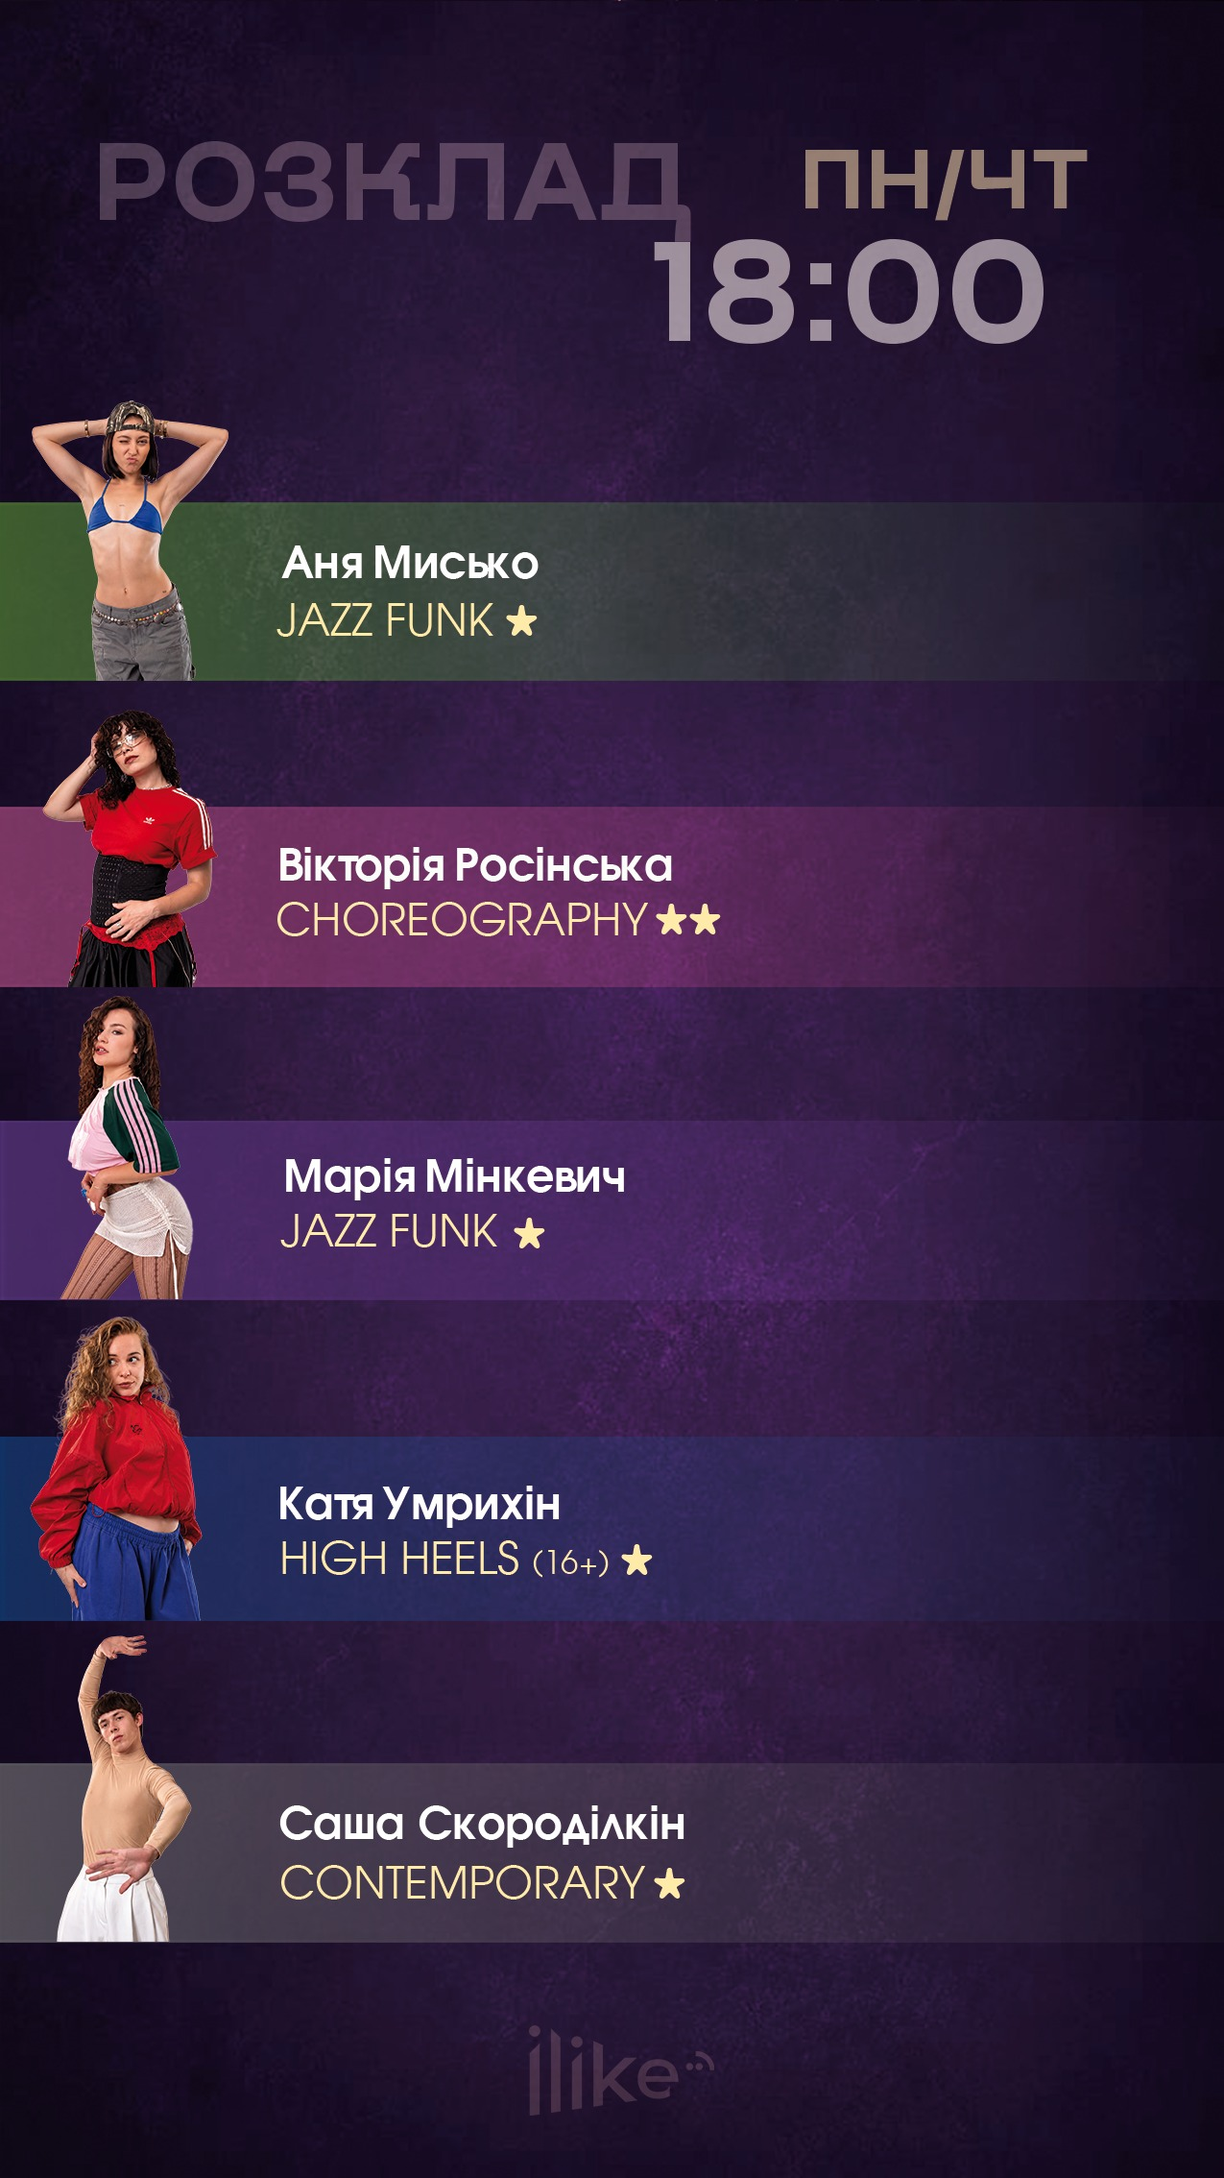
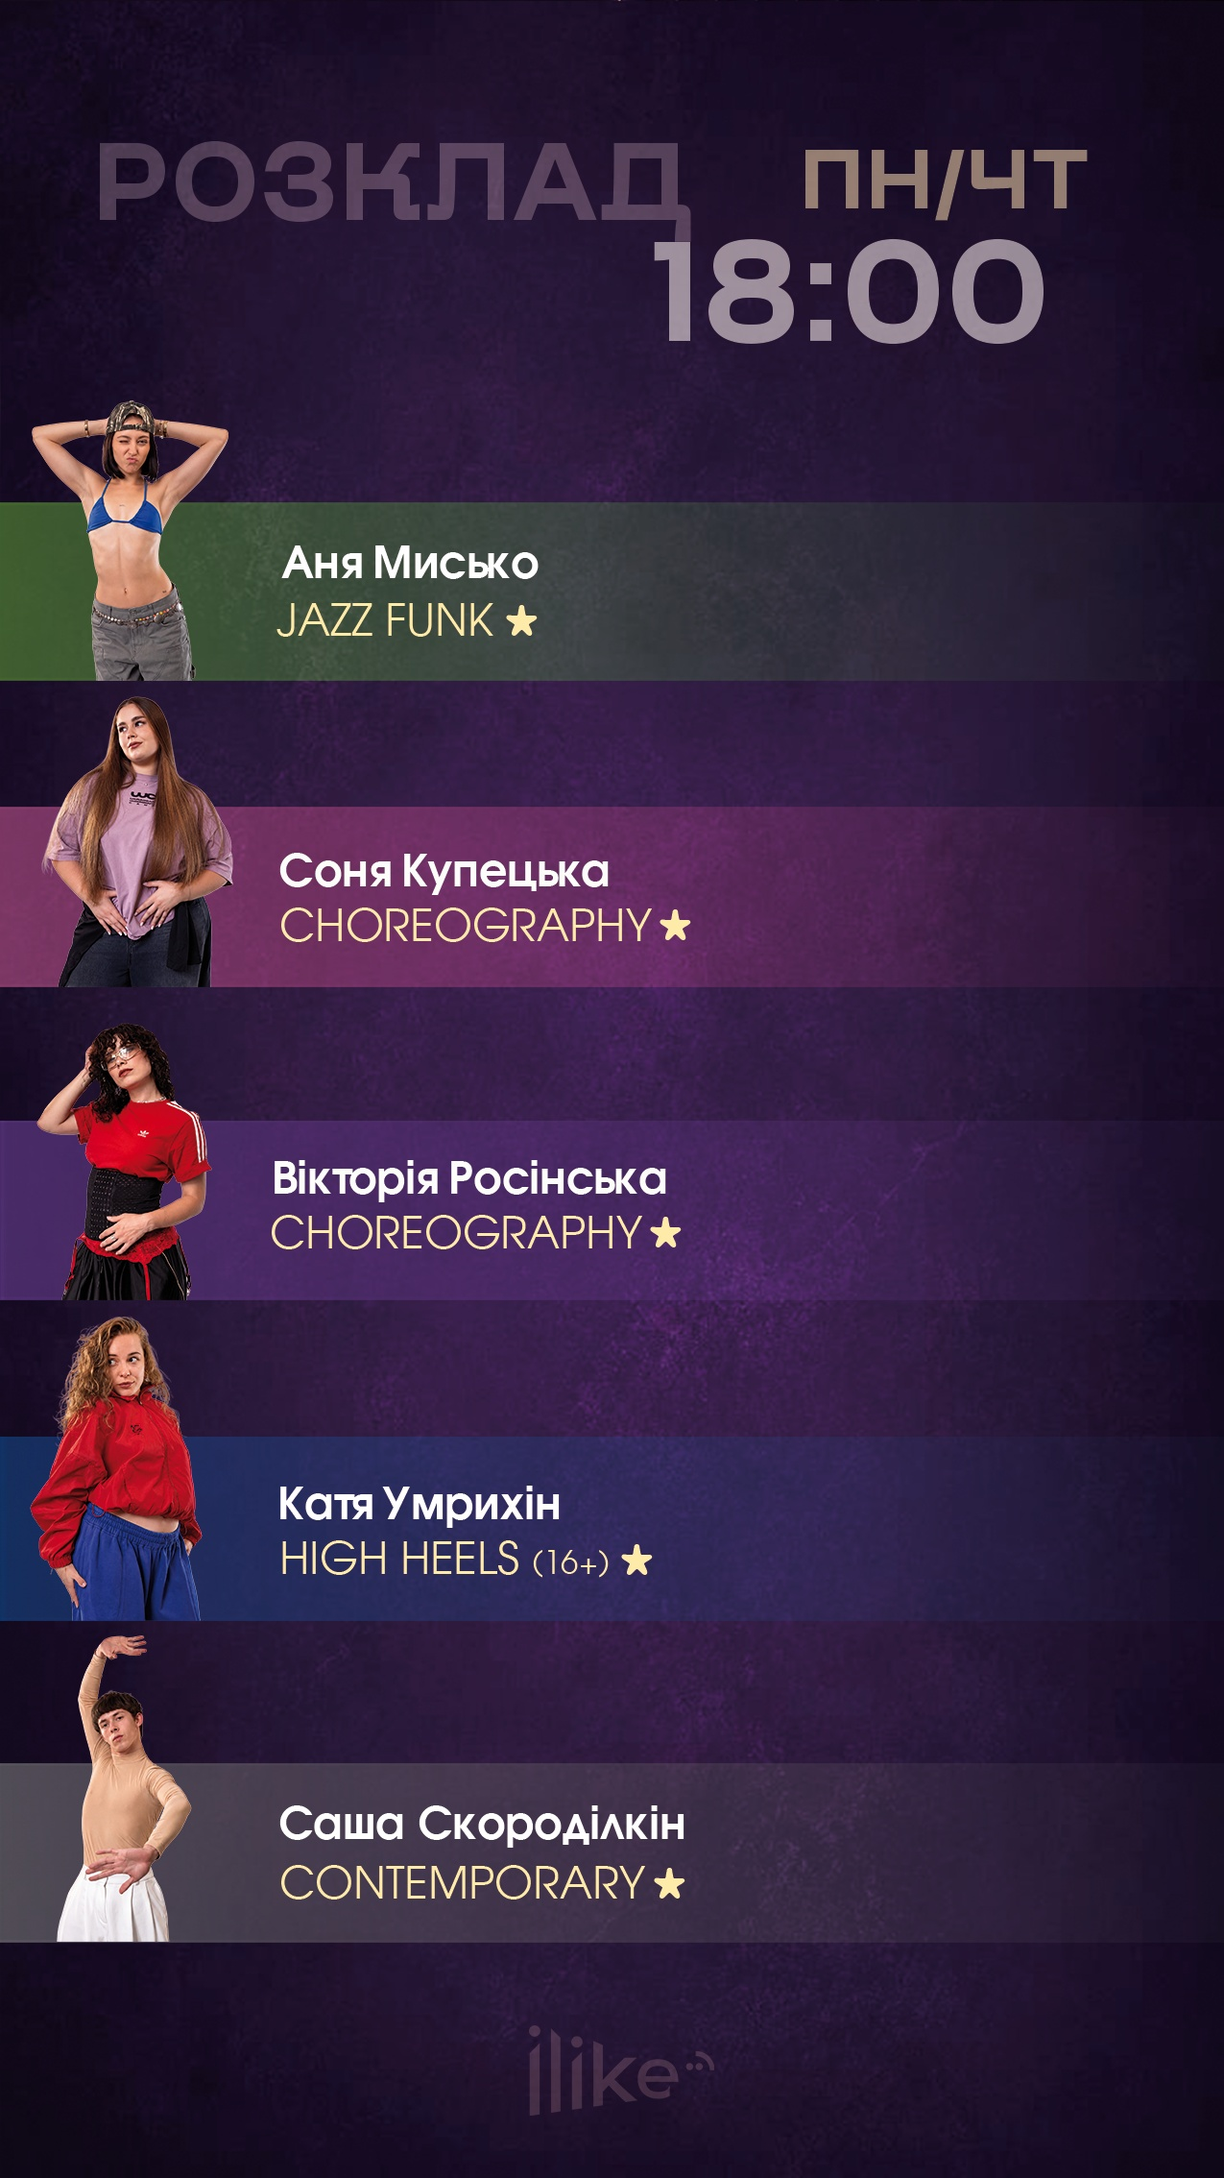
Оновити розклад і макети Пн-Чт 18:00/20:00, прибрати Мінкевич, додати /pollcheck
Заміна: статус "заміна" підіймається на 20px у сторіс, кнопка "Заміна тренера"
вище в опитуванні, нова команда /pollcheck для перевірки, хто не відповідає.

Changed region(s): [[0.0306, 0.3086, 0.5812, 0.6173], [0.2141, 0.5247, 0.5506, 0.5864]]

diff --git a/bot/config.py b/bot/config.py
@@ -55,7 +55,6 @@ CHOREOGRAPHERS = [
     "Копитко Юля",
     "Соня Криця",
     "Кулик Дмитро",
-    "Мінкевич Марія",
     "Медвідь Богдан",
     "Мисько Аня",
     "Мурачева Женя",
@@ -122,17 +121,17 @@ STATUSES = {
         "phrase": "не можна приєднатися",
         "can_join": False,
     },
-    "last_mk": {
-        "button": "🎓 Останнє заняття (лише МК)",
-        "label": "останнє заняття - в форматі МК",
-        "phrase": "🎓 останнє заняття, лише формат МК",
-        "can_join": "mk",
-    },
     "substitute": {
         "button": "🔁 Заміна тренера",
         "label": "заміна тренера",
         "phrase": "🔀 ЗАМІНА, можна приєднатися",
         "can_join": True,
+    },
+    "last_mk": {
+        "button": "🎓 Останнє заняття (лише МК)",
+        "label": "останнє заняття - в форматі МК",
+        "phrase": "🎓 останнє заняття, лише формат МК",
+        "can_join": "mk",
     },
     "cancelled": {
         "button": "🚫 Відміна заняття",
@@ -176,10 +175,10 @@ SCHEDULE = [
      "style": "Street Dance (6-9)", "level": 1, "hall": "blue"},
     {"day_pattern": "mon_thu", "time": "17:00", "choreographer": "Скороділкін Саша",
      "style": "Contemporary (6-9)", "level": 1, "hall": "white", "start_date": "2026-09-14"},
-    {"day_pattern": "mon_thu", "time": "18:00", "choreographer": "Мінкевич Марія",
-     "style": "Jazz-Funk (16+)", "level": 1, "hall": "purple", "start_date": "2026-09-17"},
+    {"day_pattern": "mon_thu", "time": "18:00", "choreographer": "Купецька Соня",
+     "style": "Choreography", "level": 1, "hall": "pink"},
     {"day_pattern": "mon_thu", "time": "18:00", "choreographer": "Росінська Віка",
-     "style": "Choreography", "level": 2, "hall": "pink", "start_date": "2026-07-27"},
+     "style": "Choreography", "level": 1, "hall": "purple", "start_date": "2026-07-27"},
     {"day_pattern": "mon_thu", "time": "18:00", "choreographer": "Мисько Аня",
      "style": "Jazz-Funk", "level": 1, "hall": "green"},
     {"day_pattern": "mon_thu", "time": "18:00", "choreographer": "Умрихін Катя",
@@ -196,14 +195,14 @@ SCHEDULE = [
      "style": "Contemporary", "level": 1, "hall": "purple"},
     {"day_pattern": "mon_thu", "time": "19:00", "choreographer": "Острянко Нана",
      "style": "Jazz Funk", "level": 1, "hall": "pink"},
-    {"day_pattern": "mon_thu", "time": "20:00", "choreographer": "Мінкевич Марія",
-     "style": "High Heels (16+)", "level": 1, "hall": "purple", "locked": True},
+    {"day_pattern": "mon_thu", "time": "20:00", "choreographer": "Сковира Віка",
+     "style": "Jazz Funk", "level": 1, "hall": "pink"},
     {"day_pattern": "mon_thu", "time": "20:00", "choreographer": "Копитко Юля",
      "style": "Choreography", "level": 1, "hall": "blue"},
     {"day_pattern": "mon_thu", "time": "20:00", "choreographer": "Острянко Нана",
-     "style": "V.L.C.ARTIST CREW", "level": 3, "hall": "white", "locked": True},
+     "style": "V.L.C.ARTIST CREW", "level": 3, "hall": "purple", "locked": True},
     {"day_pattern": "mon_thu", "time": "20:00", "choreographer": "Мисько Аня",
-     "style": "High Heels (16+)", "level": 1, "hall": "pink"},
+     "style": "High Heels (16+)", "level": 1, "hall": "white"},
     {"day_pattern": "mon_thu", "time": "20:00", "choreographer": "Кулик Дмитро",
      "style": "Jazz Funk", "level": 2, "hall": "green"},
 

diff --git a/bot/story_builder.py b/bot/story_builder.py
@@ -81,6 +81,12 @@ _STORY_CONTENT = {
     "cancelled": "ВІДМІНА",
 }
 
+# 2026-09-17: лише статус "заміна" підняти трохи вище в межах свого рядка -
+# користувач явно попросив НЕ чіпати решту статусів (зокрема "ФОРМАТ МК").
+# Перевірено тестовим зображенням (tue_fri 17:00, зсув -20px), підтверджено
+# ("мені подобається, давай так залишимо") - див. LEARNINGS.md.
+_SUBSTITUTE_Y_SHIFT = -20
+
 
 def _pill_box(row_index: int, bounds: dict) -> tuple[int, int, int, int]:
     y0, y1 = bounds["y_bounds"][row_index]
@@ -146,13 +152,17 @@ def _draw_locked_pill(im: Image.Image, box, row_index: int, pill_width: int) -> 
 
 
 def _draw_status_text(im: Image.Image, draw: ImageDraw.ImageDraw, box, text: str, text_font,
-                       scale: float = 1.0) -> None:
+                       scale: float = 1.0, y_shift: int = 0) -> None:
     """Єдиний стиль для всіх статусів: однаковий розмір, по ГОРИЗОНТАЛЬНОМУ і
     вертикальному центру зони. Звірено з PSD-макетом розмітки статусів від
     дизайнера (2026-09-10) - усі 5 прикладів мають майже ІДЕНТИЧНИЙ X-центр
     тексту (~1016px з 1275, розбіжність <1px), а не спільний правий край
     (праві краї відрізняються на 60-90px) - це однозначно center-alignment,
-    не right-alignment, яке малювалось раніше."""
+    не right-alignment, яке малювалось раніше.
+
+    y_shift: точковий зсув по Y лише для конкретного статусу (наразі - "заміна",
+    2026-09-17, "мені подобається" на тестовому зображенні) - НЕ чіпає box
+    самого рядка (інші статуси в цьому ж рядку лишаються на місці)."""
     def s(px: float) -> int:
         return round(px * scale)
 
@@ -166,7 +176,7 @@ def _draw_status_text(im: Image.Image, draw: ImageDraw.ImageDraw, box, text: str
     font, gap = _fit_font(draw, lines, base_font, 0, box_h, box_w, min_size=s(12))
     heights = [_ink_size(draw, ln, font) for ln in lines]
     total_h = sum(h for _, h, _ in heights) + gap * (len(lines) - 1)
-    y = y0 + (box_h - total_h) / 2
+    y = y0 + (box_h - total_h) / 2 + y_shift
     _draw_lines_aligned(draw, box, lines, heights, font, y, gap, align="center")
 
 
@@ -213,7 +223,8 @@ async def build_story_image(
 
         text = _STORY_CONTENT.get(resp["status_key"])
         if text is not None:
-            _draw_status_text(im, draw, box, text, text_font, scale=scale)
+            y_shift = _SUBSTITUTE_Y_SHIFT if resp["status_key"] == "substitute" else 0
+            _draw_status_text(im, draw, box, text, text_font, scale=scale, y_shift=y_shift)
 
     im.save(out_path)
     return out_path

diff --git a/bot/handlers/admin.py b/bot/handlers/admin.py
@@ -1,3 +1,4 @@
+import datetime as dt
 import logging
 
 import aiosqlite
@@ -85,6 +86,41 @@ async def cmd_unlinked(message: Message, conn: aiosqlite.Connection) -> None:
         return
 
     lines = ["Ще чекаємо на /start у приваті від:"] + [f"- {name}" for name in missing]
+    await message.answer("\n".join(lines))
+
+
+@router.message(Command("pollcheck"))
+async def cmd_poll_check(message: Message, conn: aiosqlite.Connection) -> None:
+    """Перевірка за останні 14 днів: (1) кому опитування взагалі не доходить
+    (не прив'язаний Telegram), (2) хто отримував опитування, але не відповів."""
+    links = await db.get_all_links(conn)
+    linked_names = {row["choreographer"] for row in links}
+    unlinked = [name for name in config.CHOREOGRAPHERS if name not in linked_names]
+
+    since = dt.datetime.now(config.TZ).date() - dt.timedelta(days=14)
+    missed_rows = await db.get_recent_missed_polls(conn, since)
+    missed_by_name: dict[str, list[str]] = {}
+    for row in missed_rows:
+        missed_by_name.setdefault(row["choreographer"], []).append(row["lesson_date"])
+
+    lines = [f"📋 Перевірка опитувань за останні 14 днів (з {since.strftime('%d.%m')}):"]
+
+    lines.append("")
+    if unlinked:
+        lines.append(f"🚫 Опитування НЕ доходить взагалі ({len(unlinked)}) - треба, щоб написали /start боту в приваті:")
+        lines.extend(f"- {name}" for name in unlinked)
+    else:
+        lines.append("✅ Усі хореографи прив'язані - опитування технічно доходить усім.")
+
+    lines.append("")
+    if missed_by_name:
+        lines.append(f"⚠ Отримували опитування, але не відповіли хоч раз ({len(missed_by_name)}):")
+        for name, dates in sorted(missed_by_name.items()):
+            dates_str = ", ".join(dt.date.fromisoformat(d).strftime("%d.%m") for d in dates)
+            lines.append(f"- {name} ({len(dates)}x): {dates_str}")
+    else:
+        lines.append("✅ За останні 14 днів усі, кому приходило опитування, відповіли.")
+
     await message.answer("\n".join(lines))
 
 

diff --git a/bot/story_layout.py b/bot/story_layout.py
@@ -158,7 +158,7 @@ STORY_LAYOUTS = {
     },
     ("mon_thu", "18:00"): {
         "file": "18_00.jpg",
-        "rows": ["Мисько Аня", "Росінська Віка", "Мінкевич Марія", "Умрихін Катя", "Скороділкін Саша"],
+        "rows": ["Мисько Аня", "Купецька Соня", "Росінська Віка", "Умрихін Катя", "Скороділкін Саша"],
     },
     ("mon_thu", "19:00"): {
         "file": "19_00.jpg",
@@ -166,7 +166,7 @@ STORY_LAYOUTS = {
     },
     ("mon_thu", "20:00"): {
         "file": "20_00.jpg",
-        "rows": ["Кулик Дмитро", "Мисько Аня", "Мінкевич Марія", "Копитко Юля", "Острянко Нана"],
+        "rows": ["Кулик Дмитро", "Сковира Віка", "Острянко Нана", "Копитко Юля", "Мисько Аня"],
     },
     ("wed_only", "18:00"): {
         "file": "wed_18_00.jpg",

diff --git a/bot/db.py b/bot/db.py
@@ -215,6 +215,17 @@ async def count_missed_polls_this_month(
     return row["c"]
 
 
+async def get_recent_missed_polls(
+    conn: aiosqlite.Connection, since: dt.date
+) -> list[aiosqlite.Row]:
+    cur = await conn.execute(
+        """SELECT choreographer, lesson_date FROM missed_polls
+           WHERE lesson_date >= ? ORDER BY choreographer, lesson_date""",
+        (since.isoformat(),),
+    )
+    return await cur.fetchall()
+
+
 async def count_status_for_group_month(
     conn: aiosqlite.Connection, group_id: int, status_key: str, year_month: str
 ) -> int:

diff --git a/README.md b/README.md
@@ -9,6 +9,12 @@
 - В останній день місяця надсилає звірку по кожному хореографу в приватний чат
 - Керування активним складом (➕ додати / ➖ прибрати / ✏ змінити стиль чи час) — командою `/admin` у приватному чаті власника
 
+### Перевірити, хто не відповідає на опитування
+
+Команда `/pollcheck` (у приватному чаті власника) за один раз показує:
+- кому опитування взагалі не приходить (ще не написав боту `/start` у приваті);
+- хто за останні 14 днів отримував опитування, але хоч раз не відповів (з датами).
+
 ### Якщо розклад у боті не збігається з тим, що написано в коді
 
 Це означає, що база бота "відстала" від файлу з розкладом (`bot/config.py`) — таке трапляється, якщо розклад у коді змінили, а самому боту про це не сказали. Команда `/syncroster` (у приватному чаті власника) сама звіряє базу з кодом і виправляє: додає нових хореографів, прибирає тих, кого вже нема в розкладі, оновлює зали/рівні/статус "закрита група". Запускайте її щоразу після того, як хтось (розробник) міняв розклад у файлі — вона нешкідлива, можна запускати скільки завгодно разів.

diff --git a/CLAUDE.md b/CLAUDE.md
@@ -63,6 +63,8 @@ Two template generations are in play, looked up via `story_layout.bounds_for(day
 
 A group whose `start_date` hasn't arrived yet (not locked, never polled) is rendered as "СТАРТ ДД.ММ" using the same single text style as every other status (`_draw_status_text`) — matched against real published stories, see LEARNINGS.md.
 
+`_draw_status_text` takes an optional `y_shift` (canvas-pixel offset applied after vertical centering) for per-status positional tweaks that shouldn't move the whole row's `_SLOT_BOUNDS` box (other statuses can land in that same row on other days). Currently only `substitute` ("ЗАМІНА") uses this, via `_SUBSTITUTE_Y_SHIFT = -20` in `bot/story_builder.py` (2026-09-17, user explicitly rejected shifting the whole row/box — see LEARNINGS.md). Any future "move this one status" request should follow the same pattern: a new `_STATUS_KEY_Y_SHIFT` constant applied only when that `status_key` matches, never an edit to `_SLOT_BOUNDS`.
+
 `db.get_locked_group_by_name_pattern` is a fallback lookup (ignores time) for rows that are shown decoratively in a frame whose time doesn't exactly match the group's real scheduled time — without it those rows silently render blank.
 
 ### Fonts
